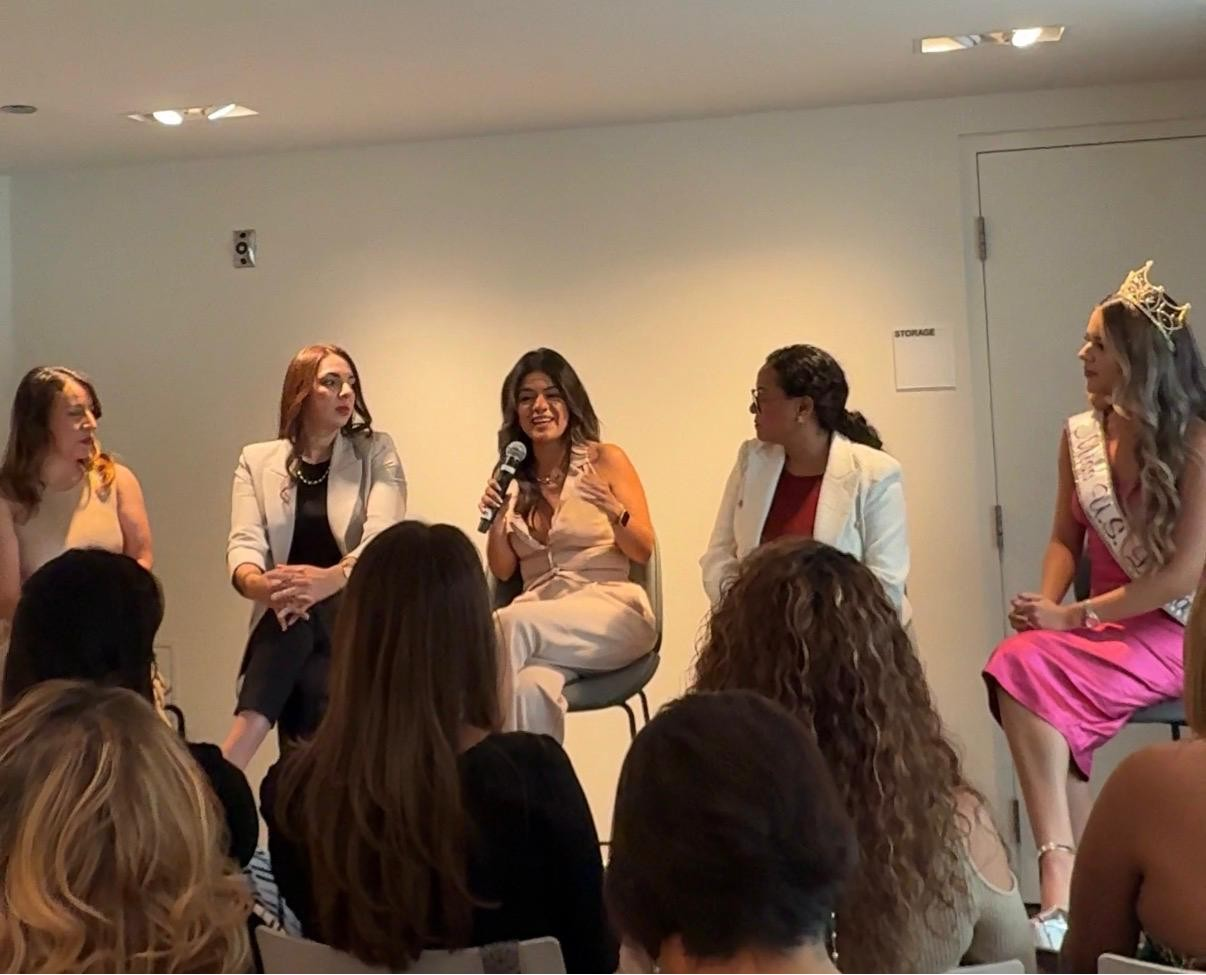
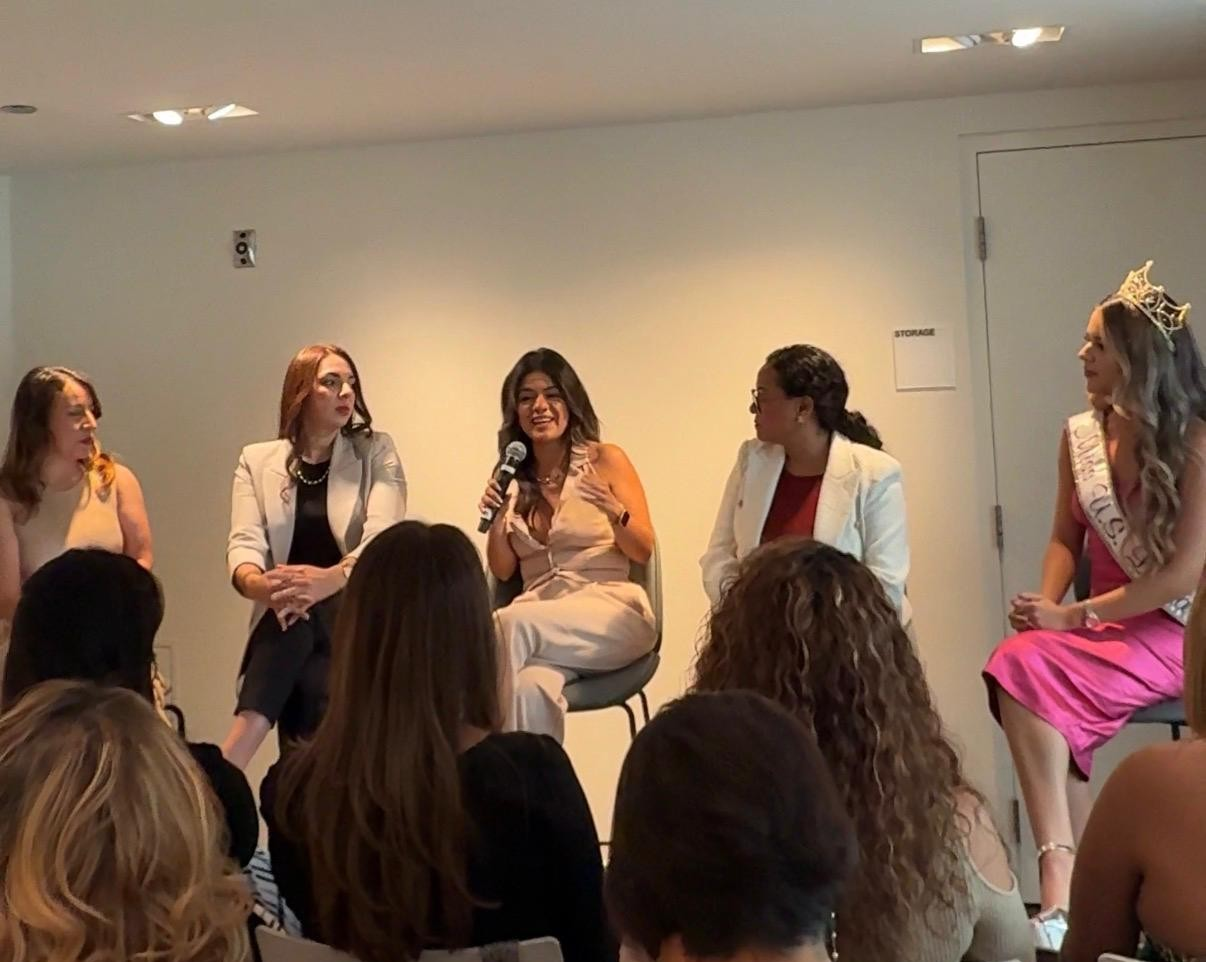
Update cropped panel photo; set workshop to TBD, guard countdown (EN+ES)

diff --git a/es.html b/es.html
@@ -568,7 +568,7 @@
         <div class="trust-label">Inglés &amp; Español</div>
       </div>
       <div class="trust-item">
-        <div class="trust-num">24 Ago · 8PM</div>
+        <div class="trust-num">TBD</div>
         <div class="trust-label"><a href="#workshop" style="color:inherit; text-decoration:none;">Próximo taller gratis →</a></div>
       </div>
     </div>
@@ -842,16 +842,7 @@
       <div class="reveal" style="background:var(--navy-mid); border:1px solid rgba(201,148,58,0.2); border-radius:10px; padding:1.5rem;">
         <div class="workshop-eyebrow">Taller comunitario gratuito</div>
         <h3 style="font-family:'Playfair Display',serif; font-size:1.3rem; color:var(--white); margin:0.4rem 0 0.3rem; line-height:1.3;">Protege lo que<br><em style="color:var(--gold-light); font-style:italic;">Más Amas</em></h3>
-        <div class="workshop-date" style="margin-bottom:1rem;">Lunes, 24 de Agosto · 8:00 PM</div>
-        <div class="workshop-countdown" id="workshop-countdown" style="margin-bottom:1.25rem;">
-          <div class="countdown-unit"><span class="countdown-num" id="cd-days">--</span><div class="countdown-label">Días</div></div>
-          <div class="countdown-sep">:</div>
-          <div class="countdown-unit"><span class="countdown-num" id="cd-hours">--</span><div class="countdown-label">Horas</div></div>
-          <div class="countdown-sep">:</div>
-          <div class="countdown-unit"><span class="countdown-num" id="cd-mins">--</span><div class="countdown-label">Min</div></div>
-          <div class="countdown-sep">:</div>
-          <div class="countdown-unit"><span class="countdown-num" id="cd-secs">--</span><div class="countdown-label">Seg</div></div>
-        </div>
+        <div class="workshop-date" style="margin-bottom:1.25rem;">Fecha por anunciar</div>
         <a href="https://deleanos-workshop.vercel.app/" target="_blank" class="workshop-btn">Reserva tu lugar →</a>
       </div>
       <div class="reveal" style="text-align:center;">
@@ -933,6 +924,7 @@
     const h = Math.floor((diff % 86400000) / 3600000);
     const m = Math.floor((diff % 3600000) / 60000);
     const s = Math.floor((diff % 60000) / 1000);
+    if(!document.getElementById('cd-days'))return;
     document.getElementById('cd-days').textContent = String(d).padStart(2,'0');
     document.getElementById('cd-hours').textContent = String(h).padStart(2,'0');
     document.getElementById('cd-mins').textContent = String(m).padStart(2,'0');

diff --git a/index.html b/index.html
@@ -568,7 +568,7 @@
         <div class="trust-label">English &amp; Español</div>
       </div>
       <div class="trust-item">
-        <div class="trust-num">Aug 24 · 8PM</div>
+        <div class="trust-num">TBD</div>
         <div class="trust-label"><a href="#workshop" style="color:inherit; text-decoration:none;">Next free workshop →</a></div>
       </div>
     </div>
@@ -842,16 +842,7 @@
       <div class="reveal" style="background:var(--navy-mid); border:1px solid rgba(201,148,58,0.2); border-radius:10px; padding:1.5rem;">
         <div class="workshop-eyebrow">Free community workshop</div>
         <h3 style="font-family:'Playfair Display',serif; font-size:1.3rem; color:var(--white); margin:0.4rem 0 0.3rem; line-height:1.3;">Protect What You<br><em style="color:var(--gold-light); font-style:italic;">Love Most</em></h3>
-        <div class="workshop-date" style="margin-bottom:1rem;">Monday, August 24 · 8:00 PM</div>
-        <div class="workshop-countdown" id="workshop-countdown" style="margin-bottom:1.25rem;">
-          <div class="countdown-unit"><span class="countdown-num" id="cd-days">--</span><div class="countdown-label">Days</div></div>
-          <div class="countdown-sep">:</div>
-          <div class="countdown-unit"><span class="countdown-num" id="cd-hours">--</span><div class="countdown-label">Hours</div></div>
-          <div class="countdown-sep">:</div>
-          <div class="countdown-unit"><span class="countdown-num" id="cd-mins">--</span><div class="countdown-label">Min</div></div>
-          <div class="countdown-sep">:</div>
-          <div class="countdown-unit"><span class="countdown-num" id="cd-secs">--</span><div class="countdown-label">Sec</div></div>
-        </div>
+        <div class="workshop-date" style="margin-bottom:1.25rem;">Date to be announced</div>
         <a href="https://deleanos-workshop.vercel.app/" target="_blank" class="workshop-btn">Reserve your seat →</a>
       </div>
       <div class="reveal" style="text-align:center;">
@@ -933,6 +924,7 @@
     const h = Math.floor((diff % 86400000) / 3600000);
     const m = Math.floor((diff % 3600000) / 60000);
     const s = Math.floor((diff % 60000) / 1000);
+    if(!document.getElementById('cd-days'))return;
     document.getElementById('cd-days').textContent = String(d).padStart(2,'0');
     document.getElementById('cd-hours').textContent = String(h).padStart(2,'0');
     document.getElementById('cd-mins').textContent = String(m).padStart(2,'0');
